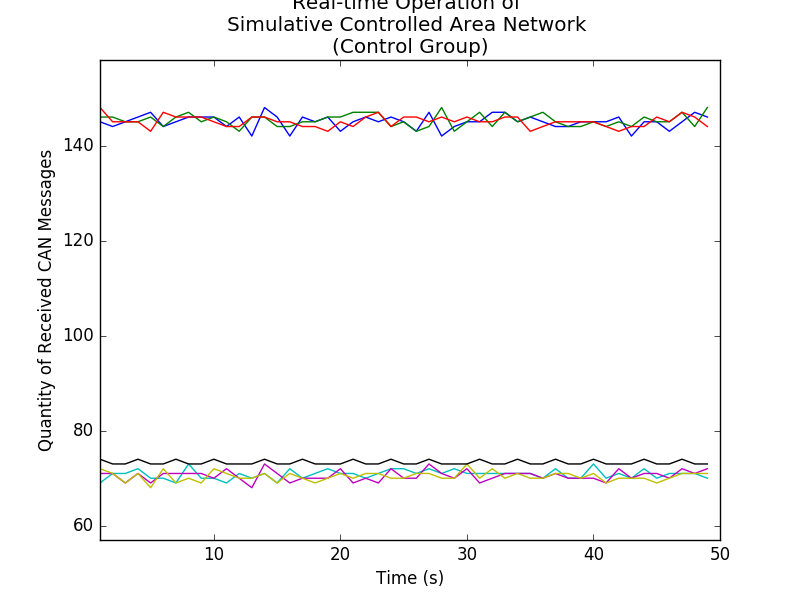
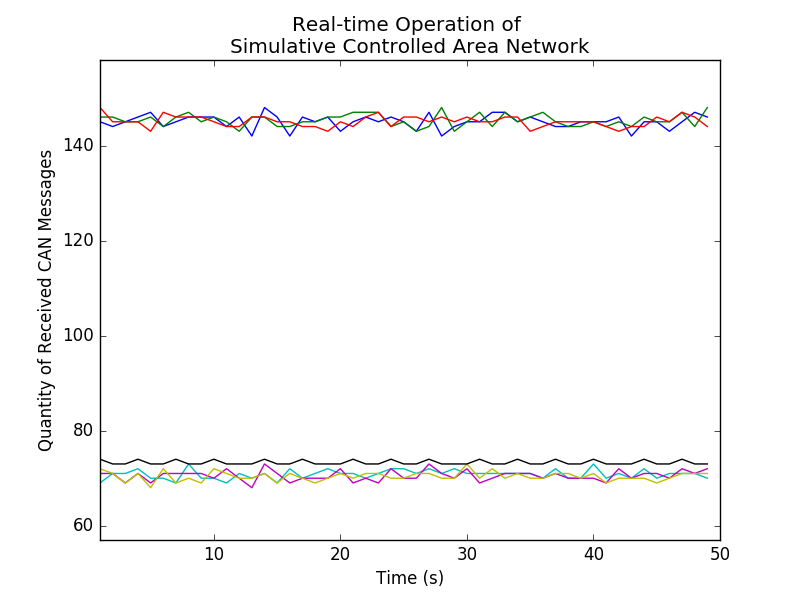
Updated figure titles - changed title in plot_log.py

Changed region(s): [[0.2812, 0.0, 0.75, 0.09]]

diff --git a/src/CAN/plot_log.py b/src/CAN/plot_log.py
@@ -37,7 +37,7 @@ def plot_data(file_path):
         plt.axis([minimx, maximx, minimy-10, maximy+10])
         plt.ylabel('Quantity of Received CAN Messages')
         plt.xlabel('Time (s)')
-        plt.title('Real-time Operation of \nSimulative Controlled Area Network \n(Control Group)')
+        plt.title('Real-time Operation of \nSimulative Controlled Area Network')
         
 
 if __name__ == '__main__':
